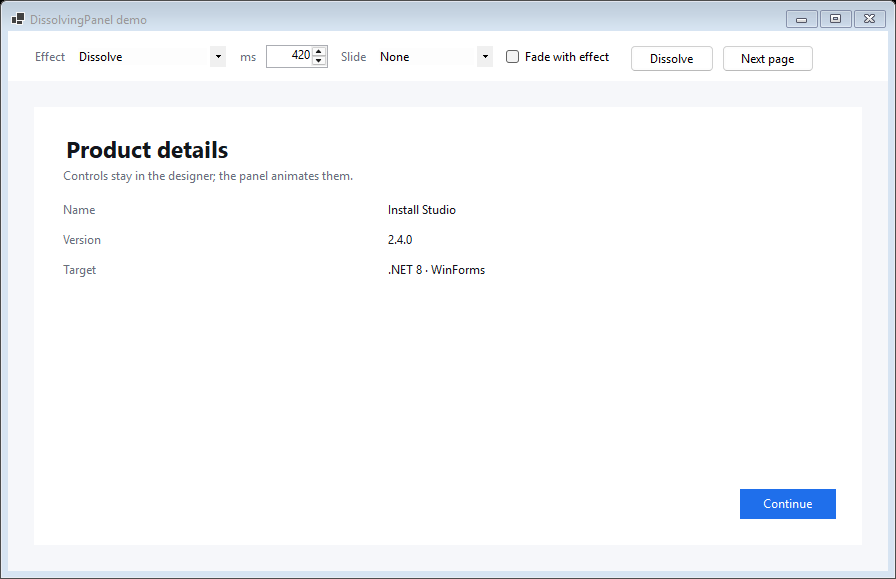
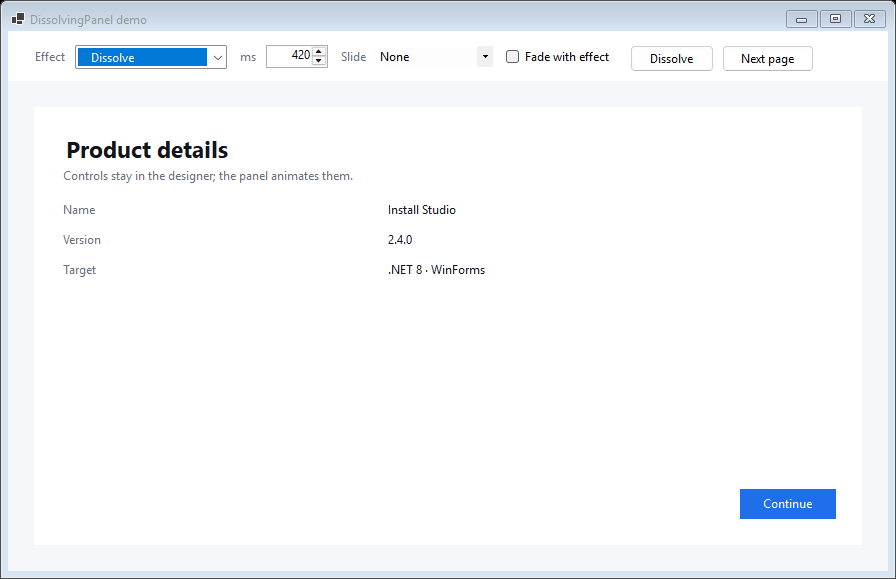
Show the effect categories in the sample app and the README.
The sample's effect combo now lists effects under their category headings and
actually applies the selection, which it previously ignored. Released as 1.2.2.

🤖 Generated with Codebuff

Changed region(s): [[0.0625, 0.0622, 0.25, 0.1244]]

diff --git a/samples/DissolvingPanelDemo/DemoForm.cs b/samples/DissolvingPanelDemo/DemoForm.cs
@@ -14,6 +14,8 @@ internal sealed class DemoForm : Form
     {
         DropDownStyle = ComboBoxStyle.DropDownList,
         FlatStyle = FlatStyle.Flat,
+        DrawMode = DrawMode.OwnerDrawFixed,
+        DropDownWidth = 190,
         Width = 152,
         Margin = new Padding(0, 3, 0, 0),
     };
@@ -62,6 +64,8 @@ internal sealed class DemoForm : Form
     };
 
     private int _page;
+    private DissolveEffect _currentEffect;
+    private Font _groupFont;
 
     public DemoForm()
     {
@@ -72,8 +76,18 @@ internal sealed class DemoForm : Form
         StartPosition = FormStartPosition.CenterScreen;
         BackColor = Color.White;
 
-        _effects.Items.AddRange(Enum.GetValues<DissolveEffect>().Cast<object>().ToArray());
-        _effects.SelectedItem = _card.Panel.Effect;
+        foreach (var group in DissolveEffectCatalog.Groups)
+        {
+            _effects.Items.Add(group);
+            foreach (var effect in group.Effects)
+            {
+                _effects.Items.Add(effect);
+            }
+        }
+
+        _effects.DrawItem += DrawEffectItem;
+        _currentEffect = _card.Panel.Effect;
+        _effects.SelectedItem = _currentEffect;
 
         _slide.Items.AddRange(Enum.GetValues<SlideDirection>().Cast<object>().ToArray());
         _slide.SelectedItem = SlideDirection.None;
@@ -103,7 +117,25 @@ internal sealed class DemoForm : Form
         Controls.Add(_card.Panel);
         Controls.Add(bar);
 
-        _effects.SelectedIndexChanged += (_, _) => Play();
+        _effects.SelectedIndexChanged += (_, _) =>
+        {
+            if (_effects.SelectedItem is not DissolveEffect effect)
+            {
+                // Category headings are labels, not choices.
+                _effects.SelectedItem = _currentEffect;
+                return;
+            }
+
+            if (effect == _currentEffect)
+            {
+                return;
+            }
+
+            _currentEffect = effect;
+            _card.Panel.Effect = effect;
+            Text = "DissolvingPanel demo - " + DissolveEffectCatalog.DisplayName(effect);
+            Play();
+        };
         _slide.SelectedIndexChanged += (_, _) =>
         {
             _card.Panel.SlideFrom = (SlideDirection)_slide.SelectedItem;
@@ -122,6 +154,40 @@ internal sealed class DemoForm : Form
         ForeColor = Color.FromArgb(104, 112, 124),
         Margin = new Padding(10, 7, 6, 0),
     };
+
+    private void DrawEffectItem(object sender, DrawItemEventArgs e)
+    {
+        if (e.Index < 0)
+        {
+            return;
+        }
+
+        var item = _effects.Items[e.Index];
+        var isGroup = item is EffectGroup;
+        e.DrawBackground();
+
+        var bounds = isGroup
+            ? e.Bounds
+            : new Rectangle(e.Bounds.X + 10, e.Bounds.Y, e.Bounds.Width - 10, e.Bounds.Height);
+        var colour = (e.State & DrawItemState.Selected) == DrawItemState.Selected
+            ? SystemColors.HighlightText
+            : isGroup ? SystemColors.GrayText : SystemColors.ControlText;
+
+        _groupFont ??= new Font(_effects.Font, FontStyle.Bold);
+        TextRenderer.DrawText(
+            e.Graphics,
+            isGroup ? ((EffectGroup)item).Name : DissolveEffectCatalog.DisplayName((DissolveEffect)item),
+            isGroup ? _groupFont : _effects.Font,
+            bounds,
+            colour,
+            TextFormatFlags.VerticalCenter);
+    }
+
+    protected override void OnFormClosed(FormClosedEventArgs e)
+    {
+        _groupFont?.Dispose();
+        base.OnFormClosed(e);
+    }
 
     private void Play()
     {

diff --git a/README.md b/README.md
@@ -50,10 +50,19 @@ Targets `net8.0-windows` and later, using `UseWindowsForms`.
 
 ## Effects
 
-`Fade`, `Dissolve`, `WipeLeft`, `WipeRight`, `WipeUp`, `WipeDown`,
-`PushLeft`, `PushRight`, `PushUp`, `PushDown`, `SplitHorizontal`, `SplitVertical`,
-`BlindsHorizontal`, `BlindsVertical`, `Checkerboard`, `RandomBars`, `Circle`,
-`Diamond`, `Box`, `Wheel`, `Zoom`.
+21 transitions, grouped the way the designer and the property grid show them:
+
+| Category | Effects |
+| --- | --- |
+| **Fades** | `Fade`, `Dissolve` |
+| **Wipes** | `WipeLeft`, `WipeRight`, `WipeUp`, `WipeDown`, `SplitHorizontal`, `SplitVertical`, `BlindsHorizontal`, `BlindsVertical` |
+| **Pushes** | `PushLeft`, `PushRight`, `PushUp`, `PushDown` |
+| **Shape reveals** | `Circle`, `Diamond`, `Box`, `Wheel`, `Zoom`, `Checkerboard`, `RandomBars` |
+
+The grouping lives in `DissolveEffectCatalog` (`Groups`, `Ordered`, `DisplayName`). The
+`Effect` property uses it through `DissolveEffectConverter` and `DissolveEffectEditor`,
+so the property grid drop-down lists every effect under its category heading in this
+order — and so can your own combo boxes, as the sample app shows.
 
 ## API
 
